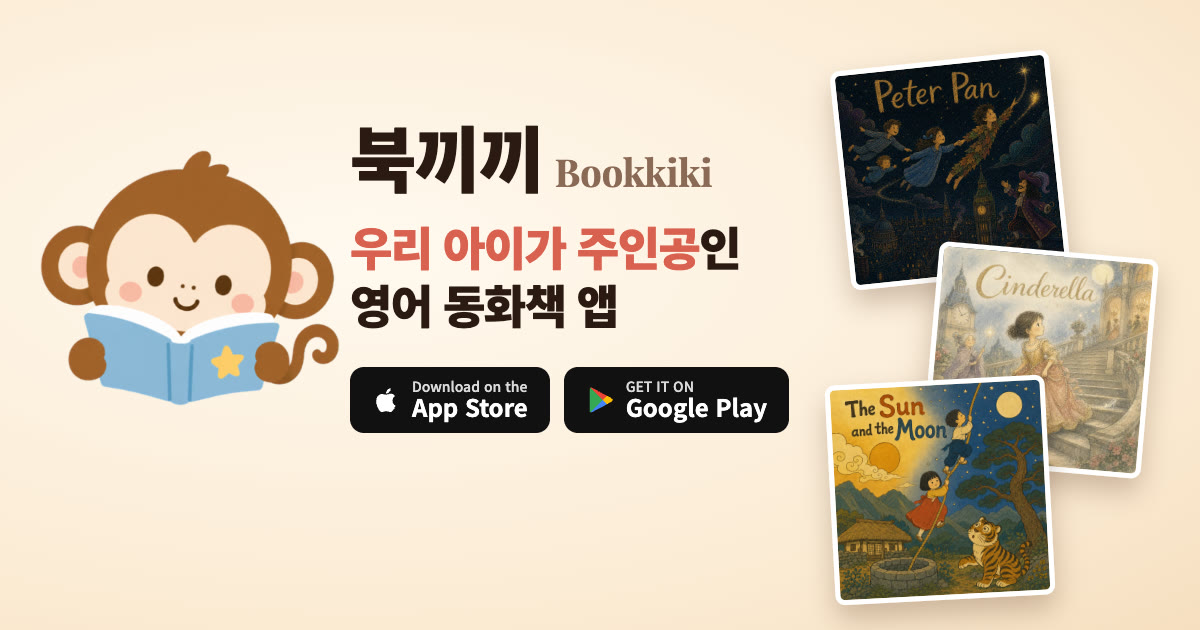
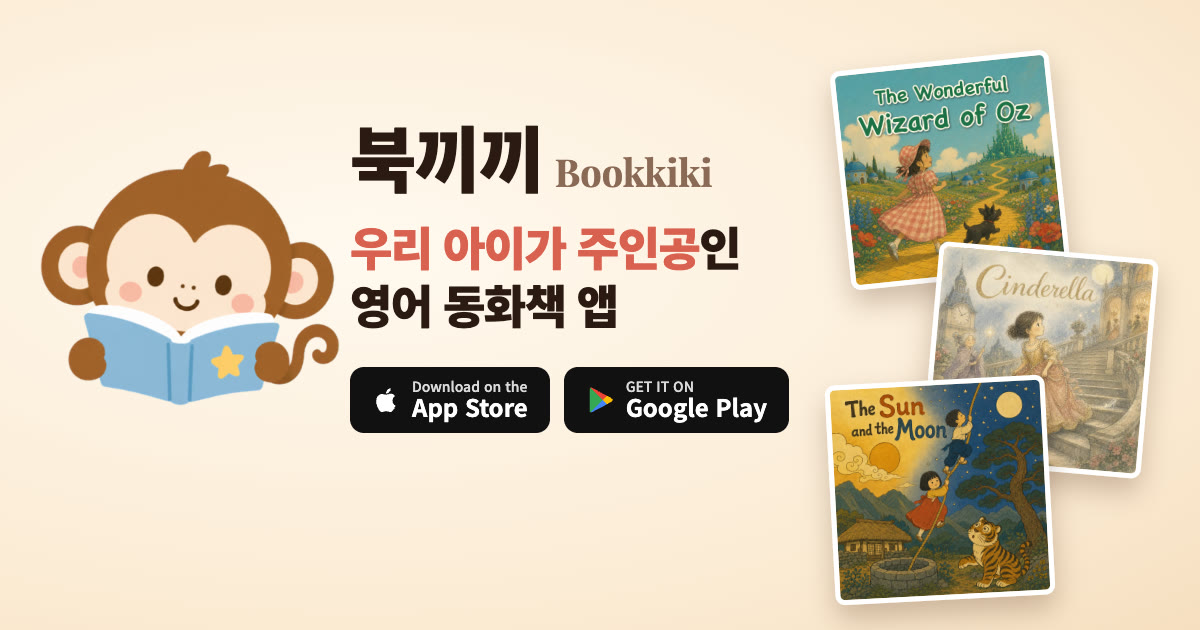
feat: 다운로드 페이지를 링크 미리보기와 같은 앱 카드 디자인으로 바꾸고 표지를 오즈의 마법사로 교체

Changed region(s): [[0.6783, 0.0905, 0.8942, 0.4524]]

diff --git a/download/index.html b/download/index.html
@@ -33,30 +33,62 @@
 </script>
 <link rel="preconnect" href="https://fonts.googleapis.com">
 <link rel="preconnect" href="https://fonts.gstatic.com" crossorigin>
-<link href="https://fonts.googleapis.com/css2?family=Gaegu:wght@700&family=Noto+Sans+KR:wght@400;500;700&display=swap" rel="stylesheet">
+<link href="https://fonts.googleapis.com/css2?family=Noto+Sans+KR:wght@400;500;700;900&family=Playfair+Display:wght@700&display=swap" rel="stylesheet">
 <link rel="stylesheet" href="../assets/style.css">
 <style>
-  .download{min-height:100vh;display:flex;align-items:center;justify-content:center;padding:48px 20px;background:linear-gradient(180deg,var(--cream) 0%,var(--paper) 100%);text-align:center}
-  .download-card{max-width:440px;width:100%}
-  .download-card img{width:200px;height:200px;margin:0 auto 12px;display:block}
-  .download-card h1{font-family:'Gaegu',cursive;font-size:2.4rem;color:var(--navy);margin:0 0 8px}
-  .download-card p{color:var(--text-2);margin:0 0 28px;line-height:1.6}
-  .download-buttons{display:flex;flex-direction:column;gap:12px}
-  .download-buttons .btn{justify-content:center;width:100%;padding:14px 22px}
-  .download-home{display:inline-block;margin-top:24px;color:var(--text-2);font-size:.9rem}
+  .dl{min-height:100vh;display:flex;align-items:center;justify-content:center;padding:48px 20px;background:radial-gradient(ellipse at 30% 40%,#FFF9EF 0%,#FBEBD3 70%,#F6DFC0 100%);overflow:hidden}
+  .dl-inner{width:100%;max-width:1040px;display:flex;align-items:center;gap:32px}
+  .dl-kiki{width:240px;flex:0 0 auto}
+  .dl-text{flex:1 1 auto;min-width:0}
+  .dl-name{font-family:"Noto Sans KR",sans-serif;font-size:64px;font-weight:900;color:#2A1A12;letter-spacing:-2px;line-height:1;margin:0}
+  .dl-name span{font-family:'Playfair Display',serif;font-size:34px;color:#8A6A55;margin-left:10px;letter-spacing:0}
+  .dl-tag{margin:22px 0 0;font-size:40px;line-height:1.25;font-weight:900;color:#2A1A12;letter-spacing:-1.2px}
+  .dl-tag em{font-style:normal;color:#D9614F}
+  .dl-sub{margin:14px 0 0;color:#5B4536;font-size:1.05rem;line-height:1.6}
+  .dl-stores{margin-top:28px;display:flex;flex-wrap:wrap;gap:12px}
+  .dl-store{display:flex;align-items:center;gap:10px;padding:11px 20px;border-radius:14px;background:#111;color:#fff;min-width:190px}
+  .dl-store:hover{background:#2A1A12}
+  .dl-store svg{width:28px;height:28px;flex:0 0 auto}
+  .dl-store small{display:block;font-size:12px;font-weight:500;opacity:.85;line-height:1.1}
+  .dl-store b{display:block;font-size:21px;font-weight:700;line-height:1.2}
+  .dl-home{display:inline-block;margin-top:22px;color:#5B4536;font-size:.9rem;text-decoration:underline;text-underline-offset:3px}
+  .dl-covers{position:relative;flex:0 0 300px;height:420px}
+  .dl-cover{position:absolute;width:190px;height:190px;border-radius:10px;border:5px solid #fff;box-shadow:0 14px 28px rgba(80,45,20,.28);object-fit:cover}
+  .dl-cover.c1{left:0;top:0;transform:rotate(-6deg)}
+  .dl-cover.c2{left:100px;top:120px;transform:rotate(5deg)}
+  .dl-cover.c3{left:10px;top:225px;transform:rotate(-3deg)}
+  @media (max-width:860px){
+    .dl-inner{flex-direction:column;text-align:center;gap:18px}
+    .dl-kiki{width:160px}
+    .dl-name{font-size:48px}.dl-name span{font-size:26px}
+    .dl-tag{font-size:30px}
+    .dl-stores{justify-content:center}
+    .dl-store{min-width:0;flex:1 1 200px;max-width:260px;justify-content:center}
+    .dl-covers{flex:0 0 auto;width:300px;height:300px}
+    .dl-cover{width:140px;height:140px}
+    .dl-cover.c1{left:10px;top:10px}.dl-cover.c2{left:150px;top:60px}.dl-cover.c3{left:60px;top:150px}
+  }
 </style>
 </head>
 <body>
-<main class="download">
-  <div class="download-card">
-    <img src="../assets/kiki-reading.png" alt="책을 읽는 북끼끼 캐릭터 키키">
-    <h1>북끼끼 앱 받기</h1>
-    <p>우리 아이가 주인공인 영어 동화책을<br>지금 바로 만들어 보세요.</p>
-    <div class="download-buttons">
-      <a class="btn btn-primary" href="https://play.google.com/store/apps/details?id=com.bookkiki.app">Google Play에서 받기 (안드로이드)</a>
-      <a class="btn btn-secondary" href="https://apps.apple.com/kr/app/id6810455009">App Store에서 받기 (아이폰·아이패드)</a>
+<main class="dl">
+  <div class="dl-inner">
+    <img class="dl-kiki" src="../assets/kiki-reading.png" alt="책을 읽는 북끼끼 캐릭터 키키">
+    <div class="dl-text">
+      <h1 class="dl-name">북끼끼<span>Bookkiki</span></h1>
+      <p class="dl-tag"><em>우리 아이가 주인공</em>인<br>영어 동화책 앱</p>
+      <p class="dl-sub">아이가 들려준 이야기도, 옛날 동화도<br>아이 이름이 들어간 영어 그림책으로 만들어요.</p>
+      <div class="dl-stores">
+        <a class="dl-store" href="https://apps.apple.com/kr/app/id6810455009"><svg viewBox="0 0 24 24" fill="#fff" aria-hidden="true"><path d="M16.4 12.6c0-2.4 2-3.6 2.1-3.7-1.1-1.7-2.9-1.9-3.5-1.9-1.5-.2-2.9.9-3.7.9-.8 0-1.9-.9-3.2-.8-1.6 0-3.1 1-4 2.4-1.7 3-.4 7.4 1.2 9.8.8 1.2 1.8 2.5 3 2.4 1.2 0 1.7-.8 3.1-.8 1.5 0 1.9.8 3.2.8 1.3 0 2.1-1.2 2.9-2.4.9-1.4 1.3-2.7 1.3-2.8 0 0-2.4-1-2.4-3.9zM14 5.5c.7-.8 1.1-1.9 1-3-1 0-2.1.7-2.8 1.5-.6.7-1.2 1.8-1 2.9 1.1.1 2.1-.6 2.8-1.4z"/></svg><span><small>Download on the</small><b>App Store</b></span></a>
+        <a class="dl-store" href="https://play.google.com/store/apps/details?id=com.bookkiki.app"><svg viewBox="0 0 24 24" aria-hidden="true"><path fill="#34A853" d="M3.6 2.2 13.4 12l-9.8 9.8c-.4-.2-.6-.6-.6-1.1V3.3c0-.5.2-.9.6-1.1z"/><path fill="#FBBC04" d="m16.8 15.4-3.4-3.4 3.4-3.4 3.9 2.2c1.1.6 1.1 1.8 0 2.4z"/><path fill="#4285F4" d="M16.8 15.4 13.4 12l-9.8 9.8c.4.2.9.2 1.4-.1z"/><path fill="#EA4335" d="M16.8 8.6 5 2.3c-.5-.3-1-.3-1.4-.1L13.4 12z"/></svg><span><small>GET IT ON</small><b>Google Play</b></span></a>
+      </div>
+      <a class="dl-home" href="../">북끼끼 홈페이지 보기</a>
     </div>
-    <a class="download-home" href="../">북끼끼 홈페이지 보기</a>
+    <div class="dl-covers" aria-hidden="true">
+      <img class="dl-cover c1" src="../assets/download-cover-oz.jpg" alt="">
+      <img class="dl-cover c2" src="../assets/download-cover-cinderella.jpg" alt="">
+      <img class="dl-cover c3" src="../assets/download-cover-sunmoon.jpg" alt="">
+    </div>
   </div>
 </main>
 </body>
